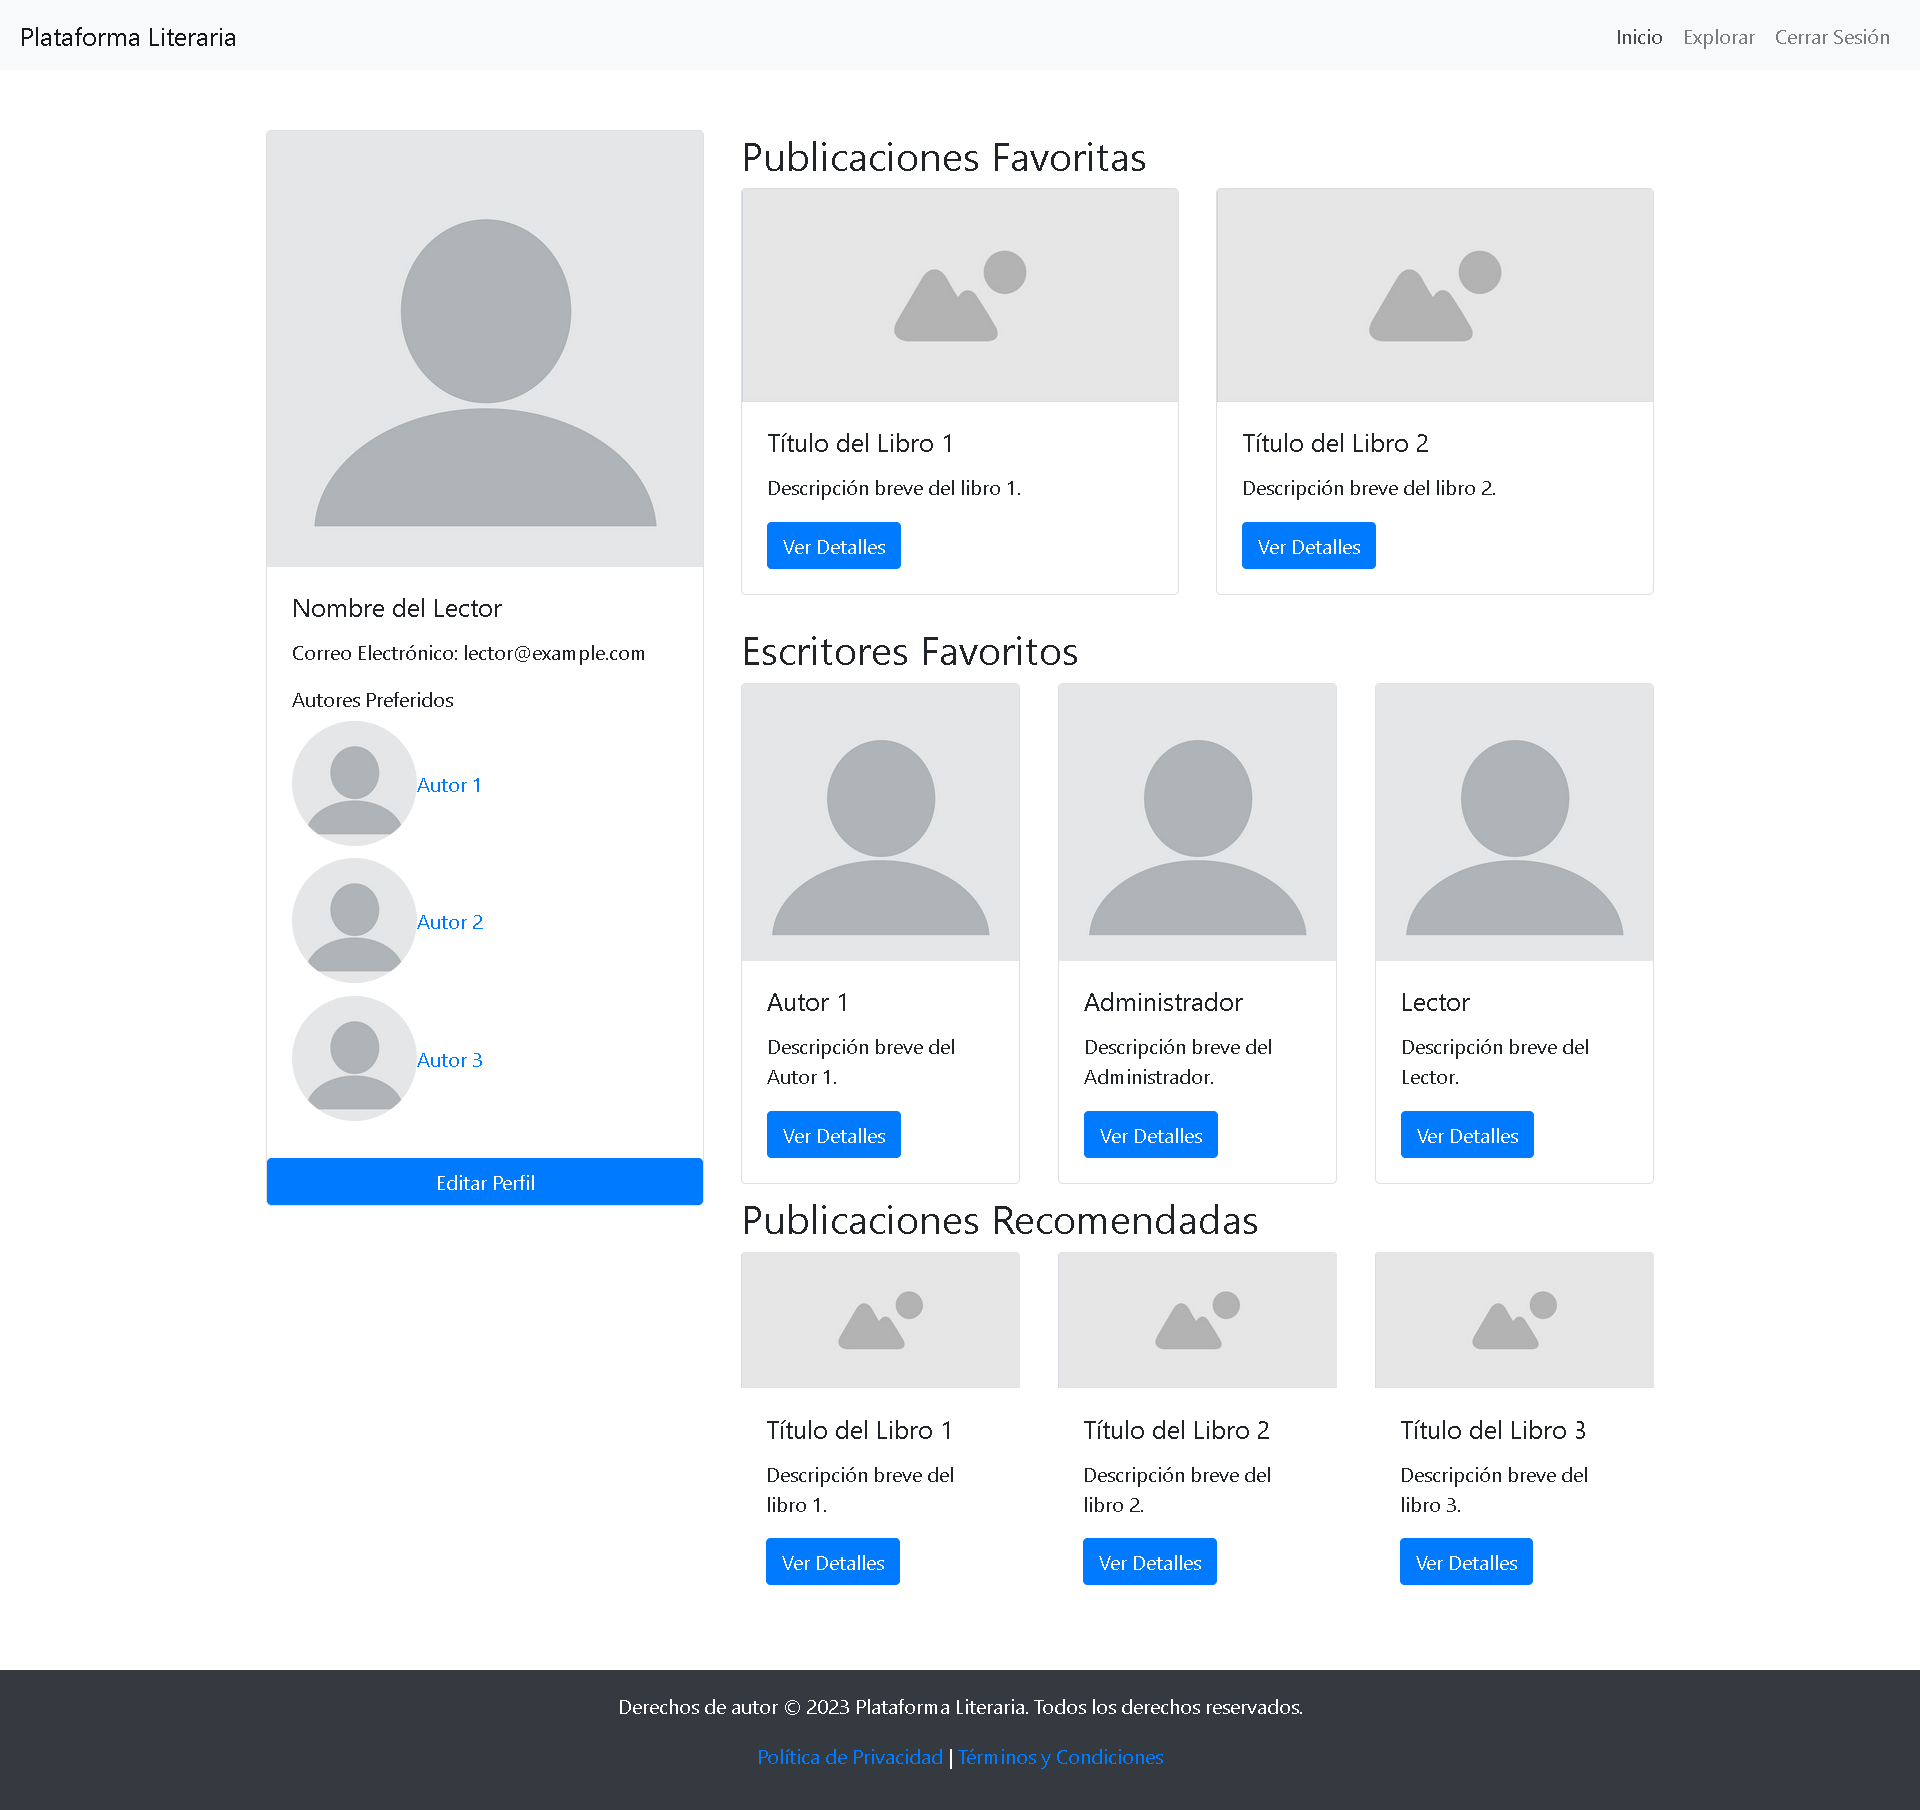
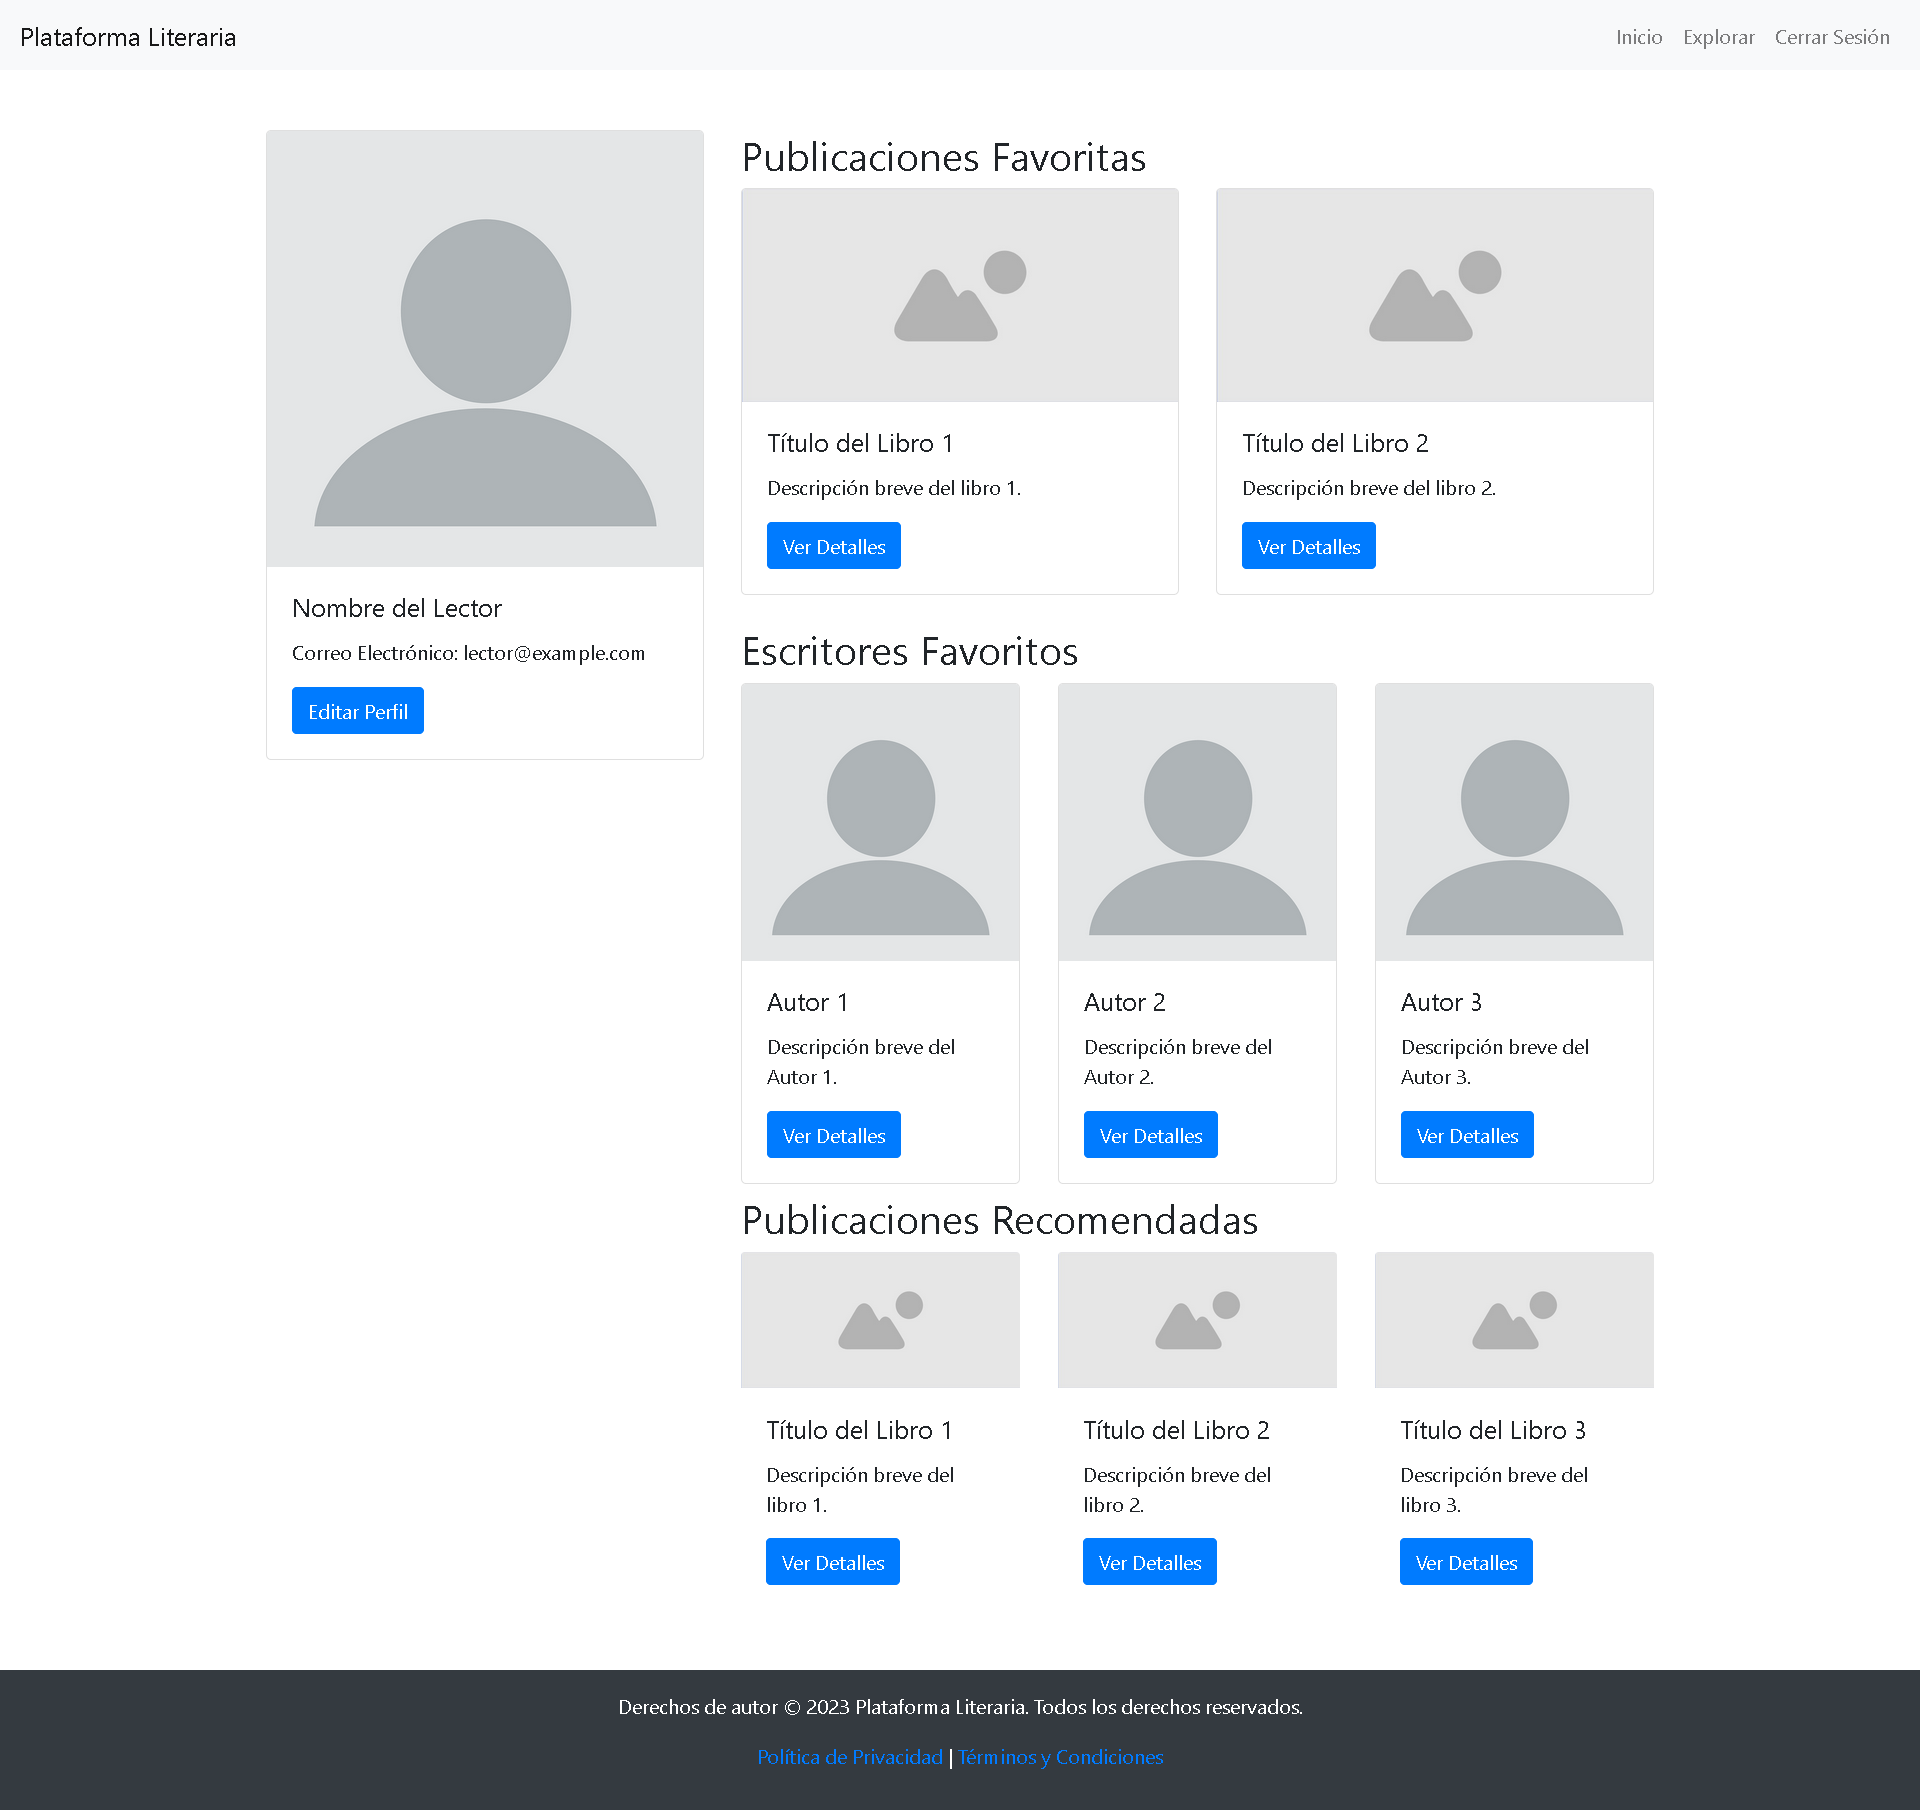
Update Lector.html
Durante la revisión, se observó que algunos escritores preferidos se encuentran duplicados en la interfaz gráfica. Por lo tanto, se requiere una actualización gráfica para corregir esta redundancia y mejorar la experiencia del usuario.

Changed region(s): [[0.125, 0.3713, 0.375, 0.6807]]

diff --git a/lector.html b/lector.html
@@ -58,40 +58,8 @@
                     <div class="card-body">
                         <h5 class="card-title">Nombre del Lector</h5>
                         <p class="card-text">Correo Electrónico: lector@example.com</p>
-                        <h6>Autores Preferidos</h6>
-                        <div class="author-container">
-                            <div class="author">
-                                <a href="escritor.html">
-                                    <img src="images/autor.jpg" alt="Autor 1" class="rounded-circle">
-                                </a>
-                            </div>
-                            <div class="author-name">
-                                <a href="escritor.html">Autor 1</a>
-                            </div>
-                        </div>
-                        <div class="author-container">
-                            <div class="author">
-                                <a href="escritor.html">
-                                    <img src="images/autor.jpg" alt="Autor 2" class="rounded-circle">
-                                </a>
-                            </div>
-                            <div class="author-name">
-                                <a href="escritor.html">Autor 2</a>
-                            </div>
-                        </div>
-                        <div class="author-container">
-                            <div class="author">
-                                <a href="escritor.html">
-                                    <img src="images/autor.jpg" alt="Autor 3" class="rounded-circle">
-                                </a>
-                            </div>
-                            <div class="author-name">
-                                <a href="escritor.html">Autor 3</a>
-                            </div>
-                        </div>
-                        <!-- Puedes agregar más autores preferidos según sea necesario -->
+                        <a href="editar_perfil_lector.html" class="btn btn-primary">Editar Perfil</a>
                     </div>
-                    <a href="editar_perfil_lector.html" class="btn btn-primary">Editar Perfil</a>
                 </div>
             </div>
             <div class="col-md-8">
